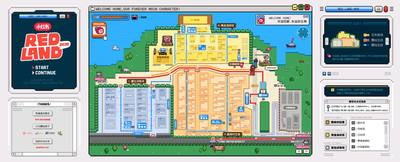
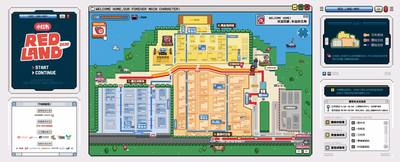
data: 换用新版官方场馆平面图（A-04 改为 coser 换装区 / 服务台、B-20 解锁为联想拯救者）
用户 9/30 提供新版官方地图（整图 7087×2879），就地替换 public/img/rules/map-2026/
的 00 / 00-full / p1 / p2 / p2-full / p3；旧版 10 个文件删除，回退靠 git 历史。

先把新图中间地图窗口按与 p2.jpg 相同的裁切框缩放后逐像素叠加，确认**两版几何完全
一致**（展位框 / 道路 / 绿化 / 装饰位置重合，差异掩膜里只有边缘抗锯齿噪声与文字），
因此 mapSpots 热区 / mapDoors / mapStart / walkGrid 全部沿用未重测。

新版实际改动四处：
- A-04 格由「待解锁」改为「coser 换装区 + 服务台」，A-04 不再是展位，从 booths.js
  删除（A 区由 40 个展位号变 39）；mapSpots.A04 热区保留给功能点位复用，并用
  NON_BOOTH_SPOTS 从地图热区列表排除，免得出现点不出 IP 的空气泡
- B-20 由「待解锁」解锁为「联想拯救者」，进 booths.js（玩法 / 账号待补）；
  credits 左栏新增 LEGION logo 佐证
- 东侧 A-01 以东新增灰色建筑「未解锁区域」，进 venueMap.tips
- credits 新增拯救者 LEGION、新创华两个 logo

功能点位的两处改动是「换位不是增减」（处数与官方指南一致）：A 区 coser 换装区从
「A-08 旁」挪到「A-04 格」、A 区服务台从「A-13 旁」挪到「A-04 格右侧」，旧位置在
新图上都消失了。

跟着图尺寸改的常量：plan.js / DevMapPage.vue 的 PX_H 1738→1748、DevMapPage 的
NAT {6000,4344}→{3952,2879}；M_PER_PX = 200/290 不动（那条 200M 箭头官方 9/20 就
删了，新版也没有，刻度是知情沿用旧图的）。三切片按深色竖框 x=1575 / 5527 切、全高
不裁。分辨率降为旧版约一半，已放大并排核对过展位号与文字清晰可读。

验证：npm run build 通过；headless 390px 实测 A 区列表无 A04 行、B 区有 B20 行、
筹选 A51/B24/C21=96、图鉴统计卡仍按官方 80/74 提示「不一致，待核」、B20 详情页
有「加清单 / 打卡 / 导航」；热区框与功能点位框叠在新图上逐一核对对齐。

diff --git a/src/data/mapSpots.js b/src/data/mapSpots.js
@@ -2,14 +2,19 @@
 // 坐标是相对 P2 那一张切片的归一化 [x, y, w, h]（P2 = 整图 x 0.2205–0.7815 全高，见 map-2026/note.json），
 // 缩略图 p2.jpg 与原像素 p2-full.jpg 共用同一套坐标。
 // 由 scripts/map-spots.py 生成：识别方框 → 人工核对序号 → --emit / --walk。
-// A 区 40 + B 区 21 + C 区 20 = 81 个展位全部已标。C 区的展位是 2–4 个挤在同一个大蓝框里，
-// 描边规则拆不开，改按亮度切（框内分隔缝是底色 R≈205，展位块 R≈160），见 scripts/map-spots.py split_c。
+// A 区 39 + B 区 21 + C 区 20 = 80 个展位 ⋯⋯ 9/30 换新版官方图后 A-04 格改为功能点位，A 区由 40 变 39。
+// C 区的展位是 2–4 个挤在同一个大蓝框里，描边规则拆不开，改按亮度切
+// （框内分隔缝是底色 R≈205，展位块 R≈160），见 scripts/map-spots.py split_c。
+// **9/30 换图说明**：新版官方图与 9/11 版的展位框 / 道路 / 绿化几何完全一致（逐像素比对过），
+// 因此本文件的全部坐标沿用、未重测；只更新了功能点位的换位（coser / service）。
 import { booths } from './booths.js'
 
 export const mapSpots = {
   A01: [0.6305, 0.4715, 0.0648, 0.0414],
   A02: [0.5445, 0.4715, 0.065, 0.043],
   A03: [0.6305, 0.5207, 0.0502, 0.0272],
+  // A04：新版官方图这一格已改为「coser 换装区 + 服务台」，不再是展位（用户 9/30）。
+  // 热区保留，给 mapFacilities 的 coser / service 复用；booths.js 里已无 A04，列表与图鉴都不会出现它。
   A04: [0.5585, 0.5207, 0.0505, 0.0272],
   A05: [0.6305, 0.5546, 0.05, 0.0265],
   A06: [0.5585, 0.555, 0.0502, 0.0262],
@@ -369,22 +374,24 @@ export const walkGrid = {
 // 坐标同样是 P2 归一化 [x, y, w, h]，由 scripts/map-spots.py --fac 从图标底色识别后人工归类。
 // official 是官方「功能点位指南」给的处数；充电宝与寄存处有几处画得太小 / 和别的图标挨太近没认出来，
 // UI 会显示「已标 N / 官方 M 处」，别当成全的。
+// 9/30 换新版官方图后：A 区的 coser 换装区从「A-08 旁」挪到「A-04 格」（该格官方图中本为 A-04 待解锁），
+// A 区的服务台从「A-13 旁」挪到「A-04 格右侧」——两处都是**换位置不是增减**，各自总数仍是 3，与官方指南一致。
 export const mapFacilities = [
   { key: 'toilet', name: '卫生间', icon: '🚻', official: 6, points: [[0.6237, 0.2194, 0.0433, 0.0129], [0.687, 0.3575, 0.0217, 0.0099], [0.3532, 0.613, 0.0095, 0.0608], [0.6792, 0.721, 0.0215, 0.0097], [0.3838, 0.7383, 0.0095, 0.0605], [0.2, 0.8182, 0.0462, 0.0132]] },
   { key: 'food', name: '餐饮休息区', icon: '🍱', official: 3, points: [[0.4428, 0.1685, 0.0382, 0.0327], [0.4963, 0.7102, 0.0382, 0.0274], [0.2192, 0.7578, 0.0408, 0.0361]] },
   { key: 'power', name: '充电宝', icon: '🔋', official: 9, points: [[0.3988, 0.1904, 0.0115, 0.0143], [0.4699, 0.1852, 0.01, 0.0132], [0.6663, 0.3027, 0.0113, 0.0143], [0.2863, 0.5543, 0.0115, 0.0145], [0.5234, 0.7242, 0.01, 0.0111], [0.598, 0.7516, 0.0115, 0.0143], [0.6265, 0.7594, 0.0112, 0.0143], [0.2481, 0.7762, 0.0107, 0.0146]] },
   { key: 'locker', name: '寄存处', icon: '🧳', official: 2, points: [[0.7265, 0.5212, 0.033, 0.0175], [0.6917, 0.805, 0.0342, 0.0173]] },
-  { key: 'coser', name: 'Coser 换装区', icon: '👗', official: 3, points: [[0.492, 0.2792, 0.0312, 0.0281], [0.6682, 0.6605, 0.0257, 0.0279], [0.1608, 0.7765, 0.0325, 0.015]] },
+  { key: 'coser', name: 'Coser 换装区', icon: '👗', official: 3, points: [[0.492, 0.2792, 0.0312, 0.0281], [0.5583, 0.5183, 0.0372, 0.031], [0.1608, 0.7765, 0.0325, 0.015]] },
   { key: 'settle', name: '结算点 / 无料交换点', icon: '🎫', official: 3, points: [[0.4162, 0.157, 0.0155, 0.044], [0.5487, 0.7419, 0.0448, 0.0223], [0.1608, 0.7482, 0.0325, 0.0251]] },
   { key: 'medical', name: '医疗点', icon: '🚑', official: 6, points: [[0.6667, 0.3204, 0.0103, 0.0131], [0.1448, 0.4291, 0.0108, 0.0138], [0.8287, 0.5209, 0.0132, 0.0143], [0.7752, 0.6057, 0.0113, 0.014], [0.6263, 0.6968, 0.0112, 0.014], [0.1942, 0.7767, 0.0113, 0.0143]] },
-  { key: 'service', name: '服务台', icon: 'ℹ', official: 3, points: [[0.6673, 0.3386, 0.0097, 0.0368], [0.2877, 0.5737, 0.0088, 0.0338], [0.6275, 0.715, 0.0088, 0.0336]] },
+  { key: 'service', name: '服务台', icon: 'ℹ', official: 3, points: [[0.6673, 0.3386, 0.0097, 0.0368], [0.2877, 0.5737, 0.0088, 0.0338], [0.6, 0.5189, 0.0108, 0.0315]] },
 ]
 
 // 逛展动线序号（蛇形序）：按「巷道 + 沿巷序」生成，奇数巷正序、偶数巷倒序。
 // 只用于多点路线的初始顺序与列表排序，**不替代官方展位号**（打卡记录仍按 booths.js 的 id 存）。
 // 巷道划分依据与五种拣货策略的实测对比见 docs 13.14，机器可读版 docs/raw/aisle_codes.json。
 export const mapSeq = {
-  A03: 1, A04: 2, A06: 3, A05: 4, A07: 5, A09: 6,
+  A03: 1, A06: 3, A05: 4, A07: 5, A09: 6,
   A10: 7, A08: 8, A11: 9, A12: 10, A18: 11, A16: 12,
   A13: 13, A15: 14, A21: 15, A22: 16, A23: 17, A24: 18,
   A25: 19, A39: 20, A40: 21, A38: 22, A37: 23, A35: 24,
@@ -409,7 +416,7 @@ export const mapSeq = {
 // 9/15 按这个办法改了 4 个：A14 D→A（原来开在南侧场外马路上，导航绕出会场，用户反馈应走 A12 → A13/A15 → A14）、
 // C10 A→C、C11 A→C、C12 A→D。A01/A02/A18/B17/B21 虽然也离线远，但换边后路线更长，维持原样。
 export const mapDoors = {
-  A01: 'A', A02: 'C', A03: 'A', A04: 'C', A05: 'A', A06: 'CD', A07: 'A', A08: 'A',
+  A01: 'A', A02: 'C', A03: 'A', A05: 'A', A06: 'CD', A07: 'A', A08: 'A',
   A09: 'BC', A10: 'C', A11: 'CD', A12: 'AD', A13: 'BD', A14: 'AB', A15: 'B', A16: 'C',
   A17: 'CD', A18: 'C', A19: 'B', A20: 'D', A21: 'AD', A22: 'AB', A23: 'AD', A24: 'A',
   A25: 'A', A26: 'A', A27: 'C', A28: 'C', A29: 'A', A30: 'AD', A31: 'C', A32: 'A',
@@ -460,13 +467,18 @@ export function doorPoint(no, from) {
 const boothsOf = (no) => booths.filter((b) => String(b.no).split('/').some((s) => s.trim() === no))
 
 // 灯箱要的热区数组：rect 归一化坐标，items 为该展位号下的全部 IP
+// A04 已不是展位（新版官方图里那一格改为 coser 换装区 / 服务台），热区保留只给功能点位复用，
+// 不再出现在地图的展位热区列表里 —— 否则图上会多一个点不出任何 IP 的空气泡（用户 9/30）
+const NON_BOOTH_SPOTS = new Set(['A04'])
 function buildSpotList() {
-  return Object.entries(mapSpots).map(([no, rect]) => ({
-    no,
-    label: `${no[0]}-${no.slice(1)}`,
-    rect,
-    items: boothsOf(no).map((b) => ({ id: b.id, ip: b.ip })),
-  }))
+  return Object.entries(mapSpots)
+    .filter(([no]) => !NON_BOOTH_SPOTS.has(no))
+    .map(([no, rect]) => ({
+      no,
+      label: `${no[0]}-${no.slice(1)}`,
+      rect,
+      items: boothsOf(no).map((b) => ({ id: b.id, ip: b.ip })),
+    }))
 }
 export const mapSpotList = buildSpotList()
 

diff --git a/src/data/rules.js b/src/data/rules.js
@@ -413,7 +413,7 @@ export const venueMap = {
   // 首页卡片里的缩略图仍是整张总览；点开进灯箱则换成下面按比例切好的 3 张（用户 9/14）
   images: [
     { src: 'img/rules/map-2026/00.jpg', alt: '2026 官方功能地图 · 全岛总览（左侧标题卡、中间全岛、右侧图例与接驳车信息）' },
-    { hidden: true, src: 'img/rules/map-2026/01.jpg', alt: 'A 区 翻身时空港 + 东侧与南侧：A-01 ~ A-40 展位分布、入口 / 出口、安检票检、寄存处、装备区、蓄客等待区、地铁 12 号线复兴岛站、577 中华船厂站与日间接驳车上下车点' },
+    { hidden: true, src: 'img/rules/map-2026/01.jpg', alt: 'A 区 翻身时空港 + 东侧与南侧：A-01 ~ A-40（A-04 已改为 coser 换装区 / 服务台）、入口 / 出口、安检票检、寄存处、装备区、蓄客等待区、地铁 12 号线复兴岛站、577 中华船厂站与日间接驳车上下车点' },
     { hidden: true, src: 'img/rules/map-2026/02.jpg', alt: 'B 区 黄金海岸线：B-01 ~ B-22 展位分布、冒险者营地、餐饮休息区、结算点 / 无料交换点' },
     { hidden: true, src: 'img/rules/map-2026/03.jpg', alt: 'C 区 重生试炼场：C-01 ~ C-20 展位分布、非公开区域、出入口' },
     { hidden: true, src: 'img/rules/map-2026/04.jpg', alt: '图例栏：花车路线 / 冒险主线 / 冒险支线、接驳车点位信息、三区色块、功能点位清单' },
@@ -439,18 +439,25 @@ export const venueMap = {
     '夜间接驳 19:30–23:00：夜间上客点在「冒险者大道尽头」，送至上海国际时尚中心接驳点',
     '入口在 A 区（翻身时空港）东南侧；A 区北侧、C 区各有出入口，C 区南北两侧另有出口',
     '冒险者营地：日光冒险 13:30–16:00、月光舞台 19:00–21:00',
+    'A 区东侧（A-01 以东）另有一片灰色建筑标注「未解锁区域」，把 A-01 东侧的通道夹成两条绿化带中间的一条便道',
   ],
   // 地图上标出的回血回蓝点位（正文原文清单）
   facilities: [
     '冒险者营地', '医疗点', '充电宝点位', '卫生间', '餐饮区', '换装区',
     '安检区', '寄存处', '装备区', '服务台', '结算点', '无料交换点', '零食 / 饮品贩卖机点位',
   ],
+  // 9/30 换图：新版官方图（用户 9/30 提供，说明「这份就是官方的」），几何与 9/11 版完全一致、
+  // 只改了 A-04 格（待解锁 → coser 换装区 / 服务台）、B-20（待解锁 → 联想拯救者）并补了东侧「未解锁区域」，
+  // 因此展位热区 / 路网 / 起点全部沿用未重测。旧版图片已删，要回退用 git 历史。
+  // 下面 source 仍是官方号 9/11 那条笔记（图的最初出处）；新版图的具体笔记 id 未拿到。
   source: {
     title: '系统提示：主角！你的登岛地图已解锁！',
     url: 'https://xhslink.cn/o/9ZFGNWnsj4j',
     noteId: '6aa3a8aa00000000260175ec',
     author: 'RED LAND',
     publishedAt: '2026-09-11',
+    updatedAt: '2026-09-30',
+    updateNote: '9/30 换用新版官方图：A-04 改为 coser 换装区 / 服务台、B-20 解锁为联想拯救者、东侧新增「未解锁区域」',
   },
 }
 
@@ -493,6 +500,9 @@ export const venueFacilities = {
     },
   ],
   note: '温馨提示：贵重物品建议主角们随身携带保管哦！',
+  // 9/30 换新版官方地图后，图上点位的**位置**有变（处数不变）：A 区的 Coser 换装区从「A-08 旁」挪到「A-04 格」，
+  // A 区的服务台从「A-13 旁」挪到「A-04 格右侧」。上面 groups 里的处数原文不动，位置以首页「场馆平面图」卡里的地图为准。
+  mapNote: '点位处数以上面官方原文为准；图上具体位置请以首页「场馆平面图」卡里的新版地图为准（9/30 版地图把 A 区的 Coser 换装区与服务台集中到了 A-04 一带）。',
   images: [
     { src: 'img/rules/facilities/00.jpg', alt: '入口一带（A 区东南）：安检票检、装备区、寄存处 ×2、Coser 换装区、医疗点 ×3、充电宝、服务台、卫生间、蓄客等待区，以及 577 中华船厂站（日间接驳上车点）与美弗来青年社区（日间接驳下车点，距入口约 100 米）' },
     { src: 'img/rules/facilities/01.jpg', alt: 'A 区 翻身时空港西侧：移动洗手间、餐饮休息区（零食 / 饮品贩卖机 + 充电宝）、结算点 / 无料交换点、充电宝，以及地铁 12 号线复兴岛站' },

diff --git a/src/data/booths.js b/src/data/booths.js
@@ -16,7 +16,7 @@ export const booths = [
   { id: 'A02', zone: 'A', no: 'A02', ip: '三角洲行动', blurb: '来洲洲大红街区观光做客，解锁干员撤离后的另一种生活', xhs: { uid: '63205dd8000000002303aaa7', name: '三角洲行动' } },
   { id: 'A03a', zone: 'A', no: 'A03', ip: '王者万象棋', blurb: '棋手闺蜜团登岛炸场！', xhs: { uid: '62da1715000000000e00fae1', name: '王者万象棋' } },
   { id: 'A03b', zone: 'A', no: 'A03', ip: '王者荣耀世界', blurb: '世民入镜，你是世界里的风景', xhs: { uid: '653a085e00000000020106cc', name: '王者荣耀世界' } },
-  { id: 'A04', zone: 'A', no: 'A04', noPin: true, ip: '待解锁', blurb: '官方场馆平面图标注「待解锁」，IP 待公布' },
+  // A04：新版官方场馆平面图里这一格已改为「coser 换装区 + 服务台」两个功能点位，不再作展位（用户 9/30）
   { id: 'A05', zone: 'A', no: 'A05', ip: '心动小镇', blurb: '小镇庆典日开张，庆典派对狂欢不停！', xhs: { uid: '60e29bf70000000020029ea6', name: '心动小镇' } },
   { id: 'A06', zone: 'A', no: 'A06', ip: '星布谷地', blurb: '米哈游最新生活模拟游戏国内首展，感受治愈新生活！', xhs: { uid: '619603700000000021028fc6', name: '星布谷地' } },
   { id: 'A07', zone: 'A', no: 'A07', noPin: true, ip: '京东 101HOME', alias: 'JD 京东101HOME', blurb: '官方场馆平面图（2026-09-11）新增，展台详情待公布', xhs: { uid: '6315d8ba000000001501a9e9', name: '京东101HOME' } },
@@ -84,7 +84,7 @@ export const booths = [
   { id: 'B16', zone: 'B', no: 'B16', noPin: true, ip: 'IP 贩售 · 宝藏码头', alias: '宝藏码头 IP贩售 谷子 集市', blurb: '各世界的冒险者在此归港，听说他们带来了不少宝藏……', xhs: { uid: '685ce6320000000008039c70', name: 'RED LAND' } },
   { id: 'B18', zone: 'B', no: 'B18', ip: '火影忍者手游', blurb: '《火影忍者》手游启动！来修炼你的忍道，成为最强忍者学员！', xhs: { uid: '650b9eb20000000012007285', name: '火影忍者手游情报君' } },
   { id: 'B19', zone: 'B', no: 'B19', ip: 'CLUTCH', alias: '离合：红线 离合红线', blurb: '摩纳哥海岸的昼夜双面世界，解锁速度与激情！', xhs: { uid: '6aa5b578000000000301cb9a', name: 'CLUTCH | 离合：红线' } },
-  { id: 'B20', zone: 'B', no: 'B20', noPin: true, ip: '待解锁', blurb: '官方场馆平面图标注「待解锁」，IP 待公布' },
+  { id: 'B20', zone: 'B', no: 'B20', ip: '联想拯救者', alias: 'LEGION Lenovo 拯救者 拯救者', blurb: '新版官方场馆平面图已解锁为「联想拯救者」，展台玩法待公布' },
   { id: 'B21a', zone: 'B', no: 'B21', noPin: true, ip: '康师傅冰红茶', alias: '冰红茶 饮料 低糖高纤 低GI', blurb: '「低 GI 痛快海滩」限时营业，玩游戏解锁好礼，冰红茶男团 coser 空降', xhs: { uid: '667636f90000000003032dfe', name: '康师傅冰红茶' } },
   { id: 'B21b', zone: 'B', no: 'B21', noPin: true, ip: 'Danisa 皇冠丹麦曲奇', alias: '丹麦曲奇 饼干', blurb: '趣味烘焙屋上岛，邀你一起解锁美味「曲奇食光」～', xhs: { uid: '5cdd6863000000001700ecd9', name: 'Danisa皇冠丹麦曲奇' } },
   { id: 'B21c', zone: 'B', no: 'B21', noPin: true, ip: '中国银联', alias: 'UnionPay 云闪付 银圆圆', blurb: '红支付 联结热爱 —— 带上银圆圆去冒险；9/28 起线上福利与登岛出行优惠开启', xhs: { uid: '6367125e000000001f01fca1', name: '中国银联' } },

diff --git a/src/utils/plan.js b/src/utils/plan.js
@@ -176,9 +176,11 @@ function improve(seed, cost) {
   return o
 }
 
-// P2 切片按 2400×1738 的缩略图坐标算折线长度（归一化 → 像素）
+// P2 切片按 2400×1748 的缩略图坐标算折线长度（归一化 → 像素）
+// 9/30 换新版官方图后 p2.jpg 从 2400×1738 变 2400×1748（同一裁切框、同一比例，纵高差 10px 是重采样取整）；
+// 两者比例差 0.6%，对「约 X 米」的量级显示无影响，沿用不改（改要同步 DevMapPage.vue 的同名常量）。
 const PX_W = 2400
-const PX_H = 1738
+const PX_H = 1748
 function polyLen(pts) {
   let d = 0
   for (let i = 1; i < pts.length; i++) {
@@ -189,6 +191,8 @@ function polyLen(pts) {
 
 // 比例尺取自官方图自己标的那条箭头「入口距离：地铁12号线·复兴岛站200M」——
 // 箭头在 2400 宽的 P2 缩略图上长约 290px，即 1px ≈ 0.69m。是图上直线距离的量级参考，界面上标「约」。
+// 注意：9/20 复核时官方就已删掉这条箭头，9/30 换上的新版图同样没有箭头；比例尺是**沿用旧图刻度、知情保留**的，
+// 不要再试图从新图上重算（图上没有可量的锚了）。展位与道路的几何两版一致，所以刻度仍然成立。
 const M_PER_PX = 200 / 290
 export const fmtDist = (d) => {
   const m = Math.round(d * M_PER_PX)

diff --git a/src/data/boothPinyin.js b/src/data/boothPinyin.js
@@ -5,7 +5,6 @@ export default {
   A02: { f: ["sanjiaozhouxingdong"], i: ["sjzxd"] },
   A03a: { f: ["wangzhewanxiangqi"], i: ["wzwxq"] },
   A03b: { f: ["wangzherongyaoshijie"], i: ["wzrysj"] },
-  A04: { f: ["daijiesuo"], i: ["djs"] },
   A05: { f: ["xindongxiaozhen"], i: ["xdxz"] },
   A06: { f: ["xingbugudi"], i: ["xbgd"] },
   A07: { f: ["jingdong","101home","jd","jingdong101home"], i: ["jd","jd1"] },
@@ -71,7 +70,7 @@ export default {
   B16: { f: ["ip","fanshou","baozangmatou","ipfanshou","guzi","jishi","red","land","xiaoxiangdaeegm"], i: ["fs","bzmt","ifs","gz","js","xxdee"] },
   B18: { f: ["huoyingrenzheshouyou","huoyingrenzheshouyouqingbaojun","piledongman"], i: ["hyrzsy","hyrzsyqbj","pldm"] },
   B19: { f: ["clutch","lihehongxian"], i: ["lhhx"] },
-  B20: { f: ["daijiesuo"], i: ["djs"] },
+  B20: { f: ["lianxiangzhengjiuzhe","legion","lenovo","zhengjiuzhe"], i: ["lxzjz","zjz"] },
   B21a: { f: ["kangshifubinghongcha","binghongcha","yinliao","ditanggaoxian","digi"], i: ["ksfbhc","bhc","yl","dtgx","dg"] },
   B21b: { f: ["danisa","huangguandanmaiquqi","danmaiquqi","binggan","danisahuangguandanmaiquqi"], i: ["hgdmqq","dmqq","bg","dhgdmqq"] },
   B21c: { f: ["zhongguoyinlian","unionpay","yunshanfu","yinyuanyuan"], i: ["zgyl","ysf","yyy"] },

diff --git a/src/views/DevMapPage.vue b/src/views/DevMapPage.vue
@@ -545,7 +545,9 @@ function undo(c) {
 }
 
 // ---- 图的显示尺寸 ----
-const NAT = { w: 6000, h: 4344 }
+// NAT = p2-full.jpg 的原始像素尺寸，只用来算显示宽高比。9/30 换新版官方图后从 6000×4344 变 3952×2879
+// （同一裁切框、同一比例），改了不影响本机 rl26.dev 的覆盖数据（坐标是归一化的）。
+const NAT = { w: 3952, h: 2879 }
 const imgW = ref(1200)
 const imgH = computed(() => Math.round((imgW.value * NAT.h) / NAT.w))
 const scroller = ref(null)
@@ -1110,7 +1112,7 @@ const gapOf = (d) => sideGaps.value[d] ?? 99
 // ---- 试走 ----
 // 折线长度换成米：与 utils/plan.js 的 fmtDist 同一比例尺（按 2400 宽的 P2 像素算）
 const PX_W = 2400
-const PX_H = 1738
+const PX_H = 1748
 function pathLen(pts) {
   let d = 0
   for (let i = 1; i < pts.length; i++) d += Math.hypot((pts[i].x - pts[i - 1].x) * PX_W, (pts[i].y - pts[i - 1].y) * PX_H)

diff --git a/CLAUDE.md b/CLAUDE.md
@@ -20,7 +20,12 @@
 - **视觉参考 RED LAND 官方活动页的像素海岛风**：天蓝格纹底、奶白像素描边卡、红色编号标签、黄色星标、导航深蓝描边。不要改成通用 Material / iOS 风。
 - **数据只来自官方**：小红书 RED LAND 官方活动页、各 IP 官方账号的「RED LAND2026 | XX展台活动详情」笔记、官方新闻稿。不编造、不猜测；未公布的写「待补充 / 待确认」。
   - 唯一例外：首页「场馆平面图」卡下半部分保留 **2025 年**网友整理的参考图（`rules.js venueMapRef`，用户 9/10 决定放、9/11 官方图出来后决定继续保留），UI 与数据必须标明「2025 年」「非官方」。
-- **场馆平面图官方图已接入**（`rules.js venueMap`，RED LAND 官方号 9/11 笔记）：放在首页「场馆平面图」卡上半部分（原 LOADING 占位处），5 张图在 `public/img/rules/map-2026/`。**全图必须原像素**（用户 9/11）：缩略图 `00.jpg` 3200 宽，灯箱打开加载 `00-full.jpg` 14412×5854（q88 约 5.5MB），走 `Lightbox` 的 `item.full`。给每个展位挂坐标（点展位在图上定位）仍未做——官方图没有网格，要逐个量展位框中心点。
+- **场馆平面图官方图已接入**（`rules.js venueMap`，RED LAND 官方号 9/11 笔记；**9/30 换成新版官方图**，见下）：放在首页「场馆平面图」卡上半部分（原 LOADING 占位处）。**全图必须原像素**（用户 9/11）：缩略图 `00.jpg` 3200 宽，灯箱打开加载 `00-full.jpg`（q88 约 2.4MB），走 `Lightbox` 的 `item.full`。
+- **9/30 换图（用户提供新版官方地图，确认「这份就是官方的」）**：新版整图 7087×2879（含四周 UI 外框），就地替换 `public/img/rules/map-2026/` 里的 `00 / 00-full / p1 / p2 / p2-full / p3`（旧版 10 个文件已删，**回退靠 git 历史**，没有再留 archive 目录——旧的 01/02/03/04 三区分图与图例栏切片不再产出）。三切片按深色竖框 **x=1575 / 5527** 切、全高不裁；`p2-full` 是 3952×2879 原像素（新版分辨率只有旧版一半，但已实测展位号与文字清晰可读，用户看过 p1/P2 后确认够用）。
+  **换图的关键前提：两版几何完全一致**（逐像素叠加比对过 —— 展位框、道路、绿化、装饰位置一模一样，差异掩膜里只有边缘抗锯齿噪声和文字）。因此 `mapSpots` 热区 / `mapDoors` / `mapStart` / `walkGrid` 全部**沿用未重测**，这是本次换图能安全落地的原因。**下次再换图要先做这一步比对**：把新图中间地图窗口按同一裁切框缩放到 `p2.jpg` 尺寸叠加看差异掩膜，几何一致才可以直接复用坐标。
+  新版实际改动只有 4 处：① **A-04 格由「待解锁」改为「coser 换装区 + 服务台」**（用户 9/30 决定：A-04 不再是展位，从 `booths.js` 删除；`mapSpots.A04` 热区保留给功能点位复用，并用 `NON_BOOTH_SPOTS` 把它从地图热区列表里排除，免得出现点不出 IP 的空气泡；A 区由 40 个展位号变 39）；② **B-20 由「待解锁」解锁为「联想拯救者」**（进 `booths.js`，账号未公布暂不填 `xhs`；credits 左栏同步新增「拯救者 LEGION」logo 佐证）；③ **东侧（A-01 以东）新增一块灰色建筑标「未解锁区域」**，把那一带的通道夹成两条绿化带中间的便道，已加进 `venueMap.tips`；④ **credits 新增拯救者 LEGION 与新创华两个 logo**（纯致谢，不建数据）。
+  **功能点位是「换位」不是增减**（处数与官方指南一致，别改 `official`）：A 区的 **coser 换装区从「A-08 旁」挪到「A-04 格」**、A 区的 **服务台从「A-13 旁」挪到「A-04 格右侧」** —— 两处旧位置在新图上都消失了。`venueFacilities.mapNote` 里记了这条。
+  跟着图的尺寸改的常量：`plan.js` 的 `PX_H` 1738→1748、`DevMapPage.vue` 的同名常量与 `NAT` {6000,4344}→{3952,2879}；`M_PER_PX = 200/290` **不动**（那条 200M 箭头官方 9/20 就删了，新版也没有，刻度是知情沿用旧图的，不要试图从新图重算）。
 - **场馆功能点位一律以 RED LAND 官方「功能点位指南」为准**（用户 9/20）：IP 自己笔记里的点位写法不同就按官方改，只在详情里注一句。已处理的分歧——地铁出口：官方写「12 号线复兴岛站 **4 号口**出站步行 200 米」，第五人格 9/17「场地信息」写「入岛 4 号口、离岛 2 号口」（与官方一致并解释了 2 号口），暴雪 9/19「登岛指南」写 2 号口（按官方改口径）；`rules.js` 的 `event.address` / `venueNav.address` 此前残留 2025 年的「2 号口步行约 110 米」，已改成 4 号口。
 - 多步任务默认直接推进，不逐步确认；只在需要业务口径 / 方案取舍时停下问。
 
@@ -72,8 +77,8 @@ docs/                         总资料底稿：REDLAND2026_信息汇总.md + as
 | `mapSpots.js` | `mapSeq` 逛展动线序号（蛇形序，路线种子与列表排序用，**不替代官方编号**）；`mapDoors` + `doorPoints()` 每个展位的到达门（A 左 / B 上 / C 右 / D 下，朝向过道那条边，**导航终点用它、不要用中心点**）。**一个展位可以配多个门，最少 1、最多 4**（用户 9/15），值是边的字母串如 `'A'` / `'AC'` / `'ABCD'`；`findRoute` 支持多目标，自动停在最近的那个门。校验办法见 §5，门点离最近一格真线 >3 格就是开在死面上，9/15 据此修了 A14 / C10 / C11 / C12；`mapSpots`：81 个展位号 → **P2 切片**上的归一化热区 `[x, y, w, h]`（p2.jpg 与 p2-full.jpg 共用）；`mapStart` 登岛起点；`walkGrid` 300×217 路网；`mapFacilities` 功能点位（遮罩点亮用）；`mapSpotList` 再附该展位号下的全部 IP | `scripts/map-spots.py`：`<区> --emit` 出热区、`--walk` 出路网，序号→展位号人工核对。**热区坐标最后是直接在 `p2-full.jpg`（6000×4344）上重测的**——先经 01/02/03.jpg → 概览图 → 整图 → P2 转换会累积几像素误差，看着就是框整体偏右下（用户 9/14） |
 | `rules.js` | `event`（含 `days[]`）/ `mainline`（含 `regions[].pin/color`、`nightPin`、`images`、`source`）/ `eggs` / `places` / `dailySchedule` / `venueMap`（官方平面图：`images` / `routes` 路线图例 / `routeTip` / `tips` 交通与点位 / `facilities` 回血点位 / `source`）/ `venueFacilities`（功能点位指南：`groups[{ title, items[] }]` / `note` / `images` 五段放大标注图 / `source`）/ `venueMapRef`（2025 年参考图 + 交通要点，非官方，保留）/ `booking`（展位活动预约指南：`timeline` 三个时间节点 / `steps` STEP1–3 + 查看凭证 / `rules` 预约资格·预约规则·退改·核销四组 / `note` / 9 张图 / `source`；渲染成首页「主线玩法」卡与「场馆平面图」卡之间的折叠卡 `🗓 展位活动预约指南`，**默认收起**，收起时也显示三枚时间胶囊（9/28–9/30 那枚用 `.pill.hot`）；RED LAND 官方号 9/19。STEP2「绑定门票」是预约前置步骤，只收流程、不收购票渠道与票价；**`booking.calendar`**（RED LAND 官方号 9/25「预约日历」：`intro` / `tips` / `note` / `days[{ date, entries[{ ip, booth: id \| [ids] \| null, acts[{ name, kind, desc }] }] }]`，按开约日 9/27 → 9/28 → 9/29 → 9/30 列全部 25 条预约活动（23 IP + 2 官方活动；正文说的第 26 个「品牌展台」没在图里），`kind` 是官方「活动类型」原文；13 张图 `cal-00～12` + `note-calendar.json`；预约指南折叠里再套一层「📅 官方预约日历」折叠（`openBookCal`，默认收起），展位名后跟 `.tag.blue.text.btn` 展位 id 标签可点跳详情；**日历里的展位一律算「需预约」**（`BoothsPage.bookingIds` 并入 `calendar` 的 `booth`），IP 自己没发笔记的 A32 / C18 / B14 用日历建了轻量详情（共用 `calSource`）。日历只给开约日不给时刻；**`booking.calendar.square`**（9/27）：`fetchedAt` / `note` / `times{ 展位 id → '9月28日 12:00' }`，来自 RED LAND2026 主会场「活动广场」ditto 页（`0874fd34…`）用本机 headless Chrome `--dump-dom` 渲染后按 `booth-card__number / reserve-time` 解析（`fetch-ditto.mjs` 抓不到，组件接口渲染），首页日历每条 IP 后显示 `⏰ 时刻` 的 `.pill.hot`，`calTime(e)` 按 id 取、营地用 `camp`；页面显示的是「下一场」会滚动，原始解析存 `docs/raw/activity_square_2026-09-27.json`）/ `dining`（岛上餐饮指南：`points` 三条要点 / `survey` 官方价格调查 / 12 张图 / `source`；RED LAND 官方号 9/21。三个区域各一处餐饮区 + 零食饮品自助贩卖机，全岛 27 家餐饮商、116 种品类，低于市场价约 37% / 持平约 63% / 高于 0 种。逐家展商的商品清单只按图收录，不转录成数据）/ `mallDeals`（商圈票根联动优惠：`malls` 7 家商场 / `kinds` 优惠类型 / `points` / 16 张图 / `source`；RED LAND 官方号 9/20。凭主角通行证票根到合作门店解锁，属到场后的场外福利、不是购票渠道或票价，可收录）/ `equipPack`（主角专属装备包：`items[{ name, desc, note }]` 五件 + `notes` + 7 张图 + `source`；渲染在首页「主线玩法」卡**里面**——PIN 规则图源之后、🎈 彩蛋之前的「🎒 主角专属装备包」小节（用户 9/17 从独立折叠卡并入，因为它是主线第一步）；RED LAND 官方号 9/15，入场安检后到装备区人人可领，不涉票务） | 官方「冒险者攻略」半层 + 主会场 + RED LAND 官方号 8/25「PIN 收集玩法」、9/11「登岛地图已解锁」「功能点位指南」笔记；`venueMapRef` 来自网友「星辰大海」2025-08-07 笔记 |
 
-- 非展位类官方笔记（玩法说明、区域介绍等）的图片放 `public/img/rules/<主题>/`，同样附 `note.json`；数据进 `rules.js`，不要塞进 `boothDetails.js`。已有：`rules/pin/`（PIN 分区规则）、`rules/pin-npc/`（NPC & 老玩家 PIN 图鉴）、`rules/map-2025/`（2025 年场地参考图，网友整理非官方，保留 1080 宽）、`rules/facilities/`（官方功能点位指南，同一张官方地图的 5 段放大标注图，保留原始 1080 宽）、`rules/equip/`（主角专属装备包 7 张，RED LAND 官方号 9/15，810 宽）、`rules/booking/`（展位活动预约指南 9 张，RED LAND 官方号 9/19，810 宽）、`rules/dining/`（小岛餐饮指南 12 张，RED LAND 官方号 9/21，810 宽）、`rules/mall/`（商圈票根联动优惠 16 张，RED LAND 官方号 9/20，810 宽）、`rules/map-2026/`（官方场馆平面图；`p1/p2/p2-full/p3` 是灯箱用的按比例三切片——P1 标题卡 / P2 中间地图（带热区，`p2-full` 6000 宽）/ P3 图例栏，切点取自整图竖直深色窗口边框 x=0.2205 / 0.7815，全高不裁；00 总览仍是首页卡里的缩略图。这些均由同一张 14412×5854 原图裁切，裁切框记在 `note.json.crops`；00 全图 / 01 A 区含东侧与南侧入口 / 02 B 区 / 03 C 区 / 04 图例栏）。**地图类图不套 810 宽的规矩**：按可读性给宽度（总览 3200 / A 区 2200 / B、C 区 1800 / 图例 1100），只压质量。
-- `src/data/pins.js`：PIN 图鉴数据（**`name` 统一写成 `IP「存档碎片」· 款式`**，用户 9/28：没公布样式写「款式待公布」，日 / 夜场写「日场款 / 夜场款」，只有一款又没名字写「展台款」；官方原称呼（徽章 / PIN 卡 / 主题 PIN）、是否计入区域拼图待确认、可夜光这类备注**不进 name、挂在 `how` 末尾括号里**；NPC / 老玩家 / 夜间同格式，冒险者拼图不是存档碎片保持原名）（type: region / night / veteran / npc / reward / **camp**——9/23 为「冒险者营地专属 PIN」加的类型，不属展位与区域，`PinsPage` 把它并进「夜间 / NPC / 老玩家 / 营地」筹选），由 `PinsPage` 渲染。字段：`no` 占位编号（区域 PIN = 展位 id[-序号]，如 `A09-1`；夜间 `N-01`、老玩家 `V-01`、NPC `NPC-01`、拼图 `R-A/R-B/R-C/R-ALL`，官方公布正式编号后再换）、`thumb` 抠出的单枚缩略图、`image` 所在整张笔记图、`booth`。每收录一个带 PIN 的展台详情：在 `scripts/crop-pins.py` 的 CROPS 加裁切框（坐标基于 810px 宽图）→ `python scripts/crop-pins.py <id>` → 追加进 `pins[]`。PIN 在图里不到 150px 时（C07 这种）给 opts `{ fileId, upscale: true }`：脚本按 `note.json.fileIds` 拉 sns-img-qc 原始分辨率图再裁并放大锐化到 320，否则缩略图会糊。**裁切框按本地图坐标写，脚本用本地图的实际宽度做 fileId 原图的换算基准**（9/25 改，之前写死 810；C09 世界之外原图只有 750 宽）。**`sns-img-qc` 对部分 `notes_pre_post/…` 的 fileId 会返回 HEIC**（文件头 `ftypheic`，9/24 粒粒 A39 那张就是），PIL 打不开会报 `UnidentifiedImageError`——先删掉 `%TEMP%/rl26-pins/` 里那份坏缓存重试一次，仍是 HEIC 就去掉 `fileId` 直接用 810 图放大（87px → 320 还能看），别为一张图去装 pillow-heif。**官方图里斜着摆的 PIN 给 opts `rotate: <度数>`**（正数 = 逆时针）：脚本先把整张图绕裁切框中心转这么多度再按同一个框裁，软盘转正后同样的框里背景更少、PIN 更满，图鉴网格也整齐。已定角度：npc-1 −15 / npc-2 +20 / npc-3 −16 / npc-4 +21 / npc-5 −16 / npc-6 +21（每张 NPC 图里前后两枚软盘往相反方向斜）、veteran −8、C16 +15、night +45（夜间 PIN 是斜 45° 的菱形）。**定角度别靠肉眼扫缩略图**（9/14 试过，判反了好几个）：用 shell 颜色掩膜（NPC 红 / C16 蓝）+ 「旋转后行列投影的一阶差分平方和最大」扫 −30°～+30°，再放大到 200px 以上核对一眼。`zone-A/B/C` 与 `puzzle-*` 是摆在笔记本页面上的透视实拍图，不是平面旋转，**不要加 rotate**，只用 fileId 拉原图放大。没公布 PIN 的展位不用写，页面自动生成占位卡（**9/28 起按展位号生成，一个展位号一张**，同号多 IP 合成一张；顶部「📊 发 PIN 展位统计」按官方口径显示 总展位 81 / 发 PIN 74 = 已放实图 + 有情报无图 + 待公布，三项相加不等于 74 时页面会提示「不一致，待核」——用户 9/28：图鉴数量要按文档里的官方数量来）；**`booths[].noPin: true` 的展位不生成占位卡**（用户 9/27：B16 宝藏码头（IP 售卖）/ B22 冰品补给点 / B21a–d 赞助区 / A04 A26 B20 待解锁 / A16 光夜展陈 本来就不发 PIN；9/29 用户又加了 A07 京东 101HOME（品牌展台），此后 noPin 展位号 8 个、本站发 PIN 73，比官方 74 少 1，图鉴统计卡会提示「不一致，待核」）。用户同时觉得 C04 独立游戏大食堂也没有，但 RED LAND 官方 9/21 明确写了「独立游戏大食堂存档碎片」，**C04 保留占位**（9/29 用户再次确认大食堂是独立游戏混合区、不算发 PIN 展位，已删 pins.js `C04` 并标 `noPin`；详情奖励里仍保留官方 9/21 原文的「存档碎片」文字，只是不再链到图鉴）。**9/27 数量核对**：官方 9/25 日历正文写「总活动展位 81 个、发 PIN 展位 74 个」，booths.js 80 个展位号 + B17 = 81，减去 noPin 的 7 个展位号（A04 A16 A26 B16 B20 B21 B22）正好 74，说明 C04 确实发 PIN；需预约 26 = 23 IP（我们标的 23 个 needBooking 展位号一一对上）+ 官方活动 2（营地见面会 + C04 主创小圆桌）+ 品牌展台 1（不明）；需预约领 PIN 官方说 7、我们数出 8（A09 / A10 / A11 / A32 / A40 / B12 / C07 / C18），差 1 待核。 **缩略图只能是官方原图裁出来的**：官方只给了卡片 / 内卡、没给软盘成品图时，就按卡片原样裁（并在 `name` 里标「是否属区域 PIN 待确认」），**不要把内卡 P 进软盘框里合成一张「成品示意图」**——那等于替官方发布一个它没公布过的外观（用户 9/21 提过这个想法，核对后发现归环给的是自家造型卡片、比例 1.66:1，根本塞不进软盘窗口，故未合成）。`zoneThumbs` 是三区通用「?」软盘图。
+- 非展位类官方笔记（玩法说明、区域介绍等）的图片放 `public/img/rules/<主题>/`，同样附 `note.json`；数据进 `rules.js`，不要塞进 `boothDetails.js`。已有：`rules/pin/`（PIN 分区规则）、`rules/pin-npc/`（NPC & 老玩家 PIN 图鉴）、`rules/map-2025/`（2025 年场地参考图，网友整理非官方，保留 1080 宽）、`rules/facilities/`（官方功能点位指南，同一张官方地图的 5 段放大标注图，保留原始 1080 宽）、`rules/equip/`（主角专属装备包 7 张，RED LAND 官方号 9/15，810 宽）、`rules/booking/`（展位活动预约指南 9 张，RED LAND 官方号 9/19，810 宽）、`rules/dining/`（小岛餐饮指南 12 张，RED LAND 官方号 9/21，810 宽）、`rules/mall/`（商圈票根联动优惠 16 张，RED LAND 官方号 9/20，810 宽）、`rules/map-2026/`（官方场馆平面图，**9/30 换新版官方图**；`p1/p2/p2-full/p3` 是灯箱用的按比例三切片——P1 标题卡 / P2 中间地图（带热区，`p2-full` 3952 宽）/ P3 图例栏，切点取自整图竖直深色窗口边框 **x=1575 / 5527**，全高不裁；00 总览仍是首页卡里的缩略图。这些均由同一张 **7087×2879** 原图裁切，裁切框记在 `note.json.crops`；旧版的 01 A 区 / 02 B 区 / 03 C 区 / 04 图例栏四个切片 9/30 起不再产出，回退靠 git 历史）。**地图类图不套 810 宽的规矩**：按可读性给宽度（总览 3200 / 三切片 1500、2400、1500），只压质量。
+- `src/data/pins.js`：PIN 图鉴数据（**`name` 统一写成 `IP「存档碎片」· 款式`**，用户 9/28：没公布样式写「款式待公布」，日 / 夜场写「日场款 / 夜场款」，只有一款又没名字写「展台款」；官方原称呼（徽章 / PIN 卡 / 主题 PIN）、是否计入区域拼图待确认、可夜光这类备注**不进 name、挂在 `how` 末尾括号里**；NPC / 老玩家 / 夜间同格式，冒险者拼图不是存档碎片保持原名）（type: region / night / veteran / npc / reward / **camp**——9/23 为「冒险者营地专属 PIN」加的类型，不属展位与区域，`PinsPage` 把它并进「夜间 / NPC / 老玩家 / 营地」筹选），由 `PinsPage` 渲染。字段：`no` 占位编号（区域 PIN = 展位 id[-序号]，如 `A09-1`；夜间 `N-01`、老玩家 `V-01`、NPC `NPC-01`、拼图 `R-A/R-B/R-C/R-ALL`，官方公布正式编号后再换）、`thumb` 抠出的单枚缩略图、`image` 所在整张笔记图、`booth`。每收录一个带 PIN 的展台详情：在 `scripts/crop-pins.py` 的 CROPS 加裁切框（坐标基于 810px 宽图）→ `python scripts/crop-pins.py <id>` → 追加进 `pins[]`。PIN 在图里不到 150px 时（C07 这种）给 opts `{ fileId, upscale: true }`：脚本按 `note.json.fileIds` 拉 sns-img-qc 原始分辨率图再裁并放大锐化到 320，否则缩略图会糊。**裁切框按本地图坐标写，脚本用本地图的实际宽度做 fileId 原图的换算基准**（9/25 改，之前写死 810；C09 世界之外原图只有 750 宽）。**`sns-img-qc` 对部分 `notes_pre_post/…` 的 fileId 会返回 HEIC**（文件头 `ftypheic`，9/24 粒粒 A39 那张就是），PIL 打不开会报 `UnidentifiedImageError`——先删掉 `%TEMP%/rl26-pins/` 里那份坏缓存重试一次，仍是 HEIC 就去掉 `fileId` 直接用 810 图放大（87px → 320 还能看），别为一张图去装 pillow-heif。**官方图里斜着摆的 PIN 给 opts `rotate: <度数>`**（正数 = 逆时针）：脚本先把整张图绕裁切框中心转这么多度再按同一个框裁，软盘转正后同样的框里背景更少、PIN 更满，图鉴网格也整齐。已定角度：npc-1 −15 / npc-2 +20 / npc-3 −16 / npc-4 +21 / npc-5 −16 / npc-6 +21（每张 NPC 图里前后两枚软盘往相反方向斜）、veteran −8、C16 +15、night +45（夜间 PIN 是斜 45° 的菱形）。**定角度别靠肉眼扫缩略图**（9/14 试过，判反了好几个）：用 shell 颜色掩膜（NPC 红 / C16 蓝）+ 「旋转后行列投影的一阶差分平方和最大」扫 −30°～+30°，再放大到 200px 以上核对一眼。`zone-A/B/C` 与 `puzzle-*` 是摆在笔记本页面上的透视实拍图，不是平面旋转，**不要加 rotate**，只用 fileId 拉原图放大。没公布 PIN 的展位不用写，页面自动生成占位卡（**9/28 起按展位号生成，一个展位号一张**，同号多 IP 合成一张；顶部「📊 发 PIN 展位统计」按官方口径显示 总展位 81 / 发 PIN 74 = 已放实图 + 有情报无图 + 待公布，三项相加不等于 74 时页面会提示「不一致，待核」——用户 9/28：图鉴数量要按文档里的官方数量来）；**`booths[].noPin: true` 的展位不生成占位卡**（用户 9/27：B16 宝藏码头（IP 售卖）/ B22 冰品补给点 / B21a–d 赞助区 / A04 A26 B20 待解锁 / A16 光夜展陈 本来就不发 PIN；9/29 用户又加了 A07 京东 101HOME（品牌展台），此后 noPin 展位号 8 个、本站发 PIN 73，比官方 74 少 1，图鉴统计卡会提示「不一致，待核」）。用户同时觉得 C04 独立游戏大食堂也没有，但 RED LAND 官方 9/21 明确写了「独立游戏大食堂存档碎片」，**C04 保留占位**（9/29 用户再次确认大食堂是独立游戏混合区、不算发 PIN 展位，已删 pins.js `C04` 并标 `noPin`；详情奖励里仍保留官方 9/21 原文的「存档碎片」文字，只是不再链到图鉴）。**9/27 数量核对**：官方 9/25 日历正文写「总活动展位 81 个、发 PIN 展位 74 个」，booths.js 80 个展位号 + B17 = 81，减去 noPin 的 7 个展位号（A04 A16 A26 B16 B20 B21 B22）正好 74，说明 C04 确实发 PIN；需预约 26 = 23 IP（我们标的 23 个 needBooking 展位号一一对上）+ 官方活动 2（营地见面会 + C04 主创小圆桌）+ 品牌展台 1（不明）；需预约领 PIN 官方说 7、我们数出 8（A09 / A10 / A11 / A32 / A40 / B12 / C07 / C18），差 1 待核。**9/30 换图后**：A04 出（本来就是 noPin）、B20 进（`ip` 改为联想拯救者、不再 noPin），展位号仍是 80 个、noPin 仍是 7 个、本站发 PIN 仍 73，所以上面这套核对结论不变；但 **B20 从「待解锁不发 PIN」变成一家真实展位**，将来官方公布它发不发 PIN 时要回来改 `noPin` 与 `booths.js`。利用 `chart` 的 `noPinNos` 判定是数据驱动的，不用手改常量。 **缩略图只能是官方原图裁出来的**：官方只给了卡片 / 内卡、没给软盘成品图时，就按卡片原样裁（并在 `name` 里标「是否属区域 PIN 待确认」），**不要把内卡 P 进软盘框里合成一张「成品示意图」**——那等于替官方发布一个它没公布过的外观（用户 9/21 提过这个想法，核对后发现归环给的是自家造型卡片、比例 1.66:1，根本塞不进软盘窗口，故未合成）。`zoneThumbs` 是三区通用「?」软盘图。
 - 术语：官方 8 月攻略半层叫「冒险岛的信物 / 冰箱贴」，8/25 PIN 笔记叫「冒险者拼图 / 冒险岛拼图完整体」，指同一件东西；UI 以「冒险者拼图」为主并括注旧称。PIN 按区域分色：翻身时空港橙 `#f26a2e`（A 区，需 4）、黄金海岸线黄 `#f2c23a`（B 区，需 2）、重生试炼场蓝 `#2f8fe6`（C 区，需 2）、夜间 PIN 黑。已收录展台的 PIN 颜色可用来反推区域。 **但分色不是铁律，别拿它反推、也别据此改官方图**（用户 9/22）：A-10 原神的徽章是标准软盘造型（灰条 + 小红书角标齐全）却是**蓝色**，官方原文也只写「徽章一份」而非「存档碎片」，已按原图进 `pins.js` `A10`、`zone` 随展位记 A，并在 `name` 里写明「软盘为蓝色，非 A 区橙，是否计入区域拼图待确认」。遇到这种冲突一律照官方图记录 + 标待确认。
 
 - **`booths[].xhs`**：`{ uid, name }` 该 IP 小红书官方账号（uid = 抓笔记时 `note.json` 里的 `user.userId`）。**作者必须是该 IP 自己的官方号**：RED LAND 官方号发的「xx 确认登岛」是主办方账号，不能填成该 IP 的 `xhs`（唯一例外 B16 宝藏码头是主办方自营集市）。只有「确认登岛」预告、线上征集这类没有展台玩法的笔记：只补 `xhs`，不建 `boothDetails`，封面压 810 宽归档到 `docs/assets/ip_notes/PREVIEWS_确认登岛预告/<展位号_IP>.jpg` + 同名 json（`keptOnly` 写明缘由），`public/img` 不留文件。有则列表行出现 📕 按钮、详情页出现「小红书主页」按钮，方便用户去核对最新动态；没有的展位只给搜索按钮。每抓一条新 IP 笔记都要顺手把 uid 补进 `booths.js`。RED LAND 官方号 uid `685ce6320000000008039c70`（`src/utils/xhs.js`）。
@@ -273,7 +278,10 @@ docs/                         总资料底稿：REDLAND2026_信息汇总.md + as
 - [x] 功能点位指南：RED LAND 官方号 9/11 笔记已接入（`rules.js venueFacilities` + `public/img/rules/facilities/`，首页平面图卡「登岛地图」下新增「🧭 功能点位指南」折叠）。地铁口以官方 4 号口为准（2025 网友图写的 2 号口作废）
 - [x] 展位活动预约：RED LAND 官方号 9/19「展位活动预约指南」已接入（`rules.js booking` + `public/img/rules/booking/`，首页折叠卡）。**9/25 预约系统上线并公布全部预约活动与时间表 → 9/28–9/30 开放预约 → 10/2–10/6 现场动态二维码核销**，线下每日 12:30 开放入场。9/25 当天要回来补各展位的具体预约场次 / 名额（**A40 光与夜之恋 9/21 已自行公布档期**：三个项目 × 5 天全部在 9/28 12:00–15:45 分 15 分钟一档开启，是目前唯一有具体时间的展台，可作其他 IP 公布时的格式参照）。**9/25 已回补**：RED LAND 官方号当天发「预约日历」（`rules.js booking.calendar`，25 条），据此给 A22 火影见面会 / A33 遇镜 / A25 轻松小熊合影会 / C11 拼豆工坊 / A39 心想家 / A09 星穹铁道两项 / C04 主创小圆桌 / 冒险者营地 见面会 补了 `needBooking` 与开约日；A10 / A28 / B03 的「开约时间待公布」改成日历日期。日历只给开约日不给时刻，各展位具体时刻仍以主会场活动页为准；正文说需预约 26 个、日历只列 25 条，缺的 1 个「品牌展台」待官方补
 - [ ] 夜间「月下模式」具体开启时刻（A22 火影见面会的开约日 9/25 已由官方日历给出：10/2 场 9/28、10/3–10/4 场 9/29、10/5–10/6 场 9/30，日历里的活动名是「漩涡鸣人见面会（含合影券）」）
-- [ ] 平面图新增的待解锁展位 A04 / A26 / B20 官方公布 IP 后补；A16「光夜展陈」与 A40 光与夜之恋的关系待官方确认
+- [ ] 平面图新增的待解锁展位 **A26** 官方公布 IP 后补（**A04 已于 9/30 按新版官方图撤下** —— 那一格改成 coser 换装区 / 服务台，不再是展位；**B20 已于 9/30 解锁为「联想拯救者」**，进 `booths.js`，仍待补：展台玩法、官方账号 uid、是否发 PIN）；A16「光夜展陈」与 A40 光与夜之恋的关系待官方确认
+- [ ] B20 联想拯救者：新版地图只给了名字与 credits 里的 LEGION logo，**展台玩法 / 小红书官方账号 / 要不要预约 / 发不发存档碎片全未公布**，需等其官方笔记；官方公布后按 §6 流程建详情
+- [ ] 9/30 新版地图的**来源笔记 id 未拿到**（用户直接给的图，确认是官方的）：`venueMap.source` 仍记 9/11 那条笔记，补到新版笔记链接后换成它
+- [ ] 9/30 新版地图新增的东侧「未解锁区域」灰色建筑：官方没说是什么（单纯封路 / 二期场地 / 未公布展位都可能），只进了 `venueMap.tips` 一句话，等官方口径
 - [x] C07 苏丹的游戏：9/24 已公布预约规则（9/29 15:00 起按日开约、舍馆核销、日 13:00–17:00 / 夜 18:00–21:00）。剩下：哈比卜的厨房白天 / 夜晚两款大餐卡牌样式待公布；宴会菜单 / 大餐贴纸实物待现场
 - [ ] IP 官方账号：93 个展位行已关联 78 个（9/11 用户六批共 112 条链接；93 = 原 81 + 平面图新增 12 行），剩 8 行待补（**C04 独立游戏大食堂按用户 9/27 口径不需要独立账号，不再计入**）：C13 GSE（**9/30 补上**：uid `647feef5000000001f0060ae`、昵称「香港 GSE 官方」，取自其 9/30「首度登岛！GSE参展2026 RedLand！」笔记的 `user.userId`；`redOfficialVerifyType` 为 0 = 未认证官方标，但昵称自称官方、笔记内容与展位一致；9/23 的啦嗒铛 ditto 页没有关注组件所以此前拿不到）、A04 / A26 / B20（待解锁，无 IP）、C20 符文战场。9/24 补 B21d 华硕 a豆（uid `5d0e0d1b0000000011004433`，来自其 9/24「a豆在复兴岛发礼物啦」）。9/25 补 A37 奇遇动物城（uid `6a743a370000000013021c03`，其 9/25 参展情报；IP 名从「动物城模拟生活新游（Partopia）」改为官方号自称的「奇遇动物城」，旧名进 alias）。9/27 补 B19 CLUTCH（uid `6aa5b578000000000301cb9a`，其 9/24 确认登岛）与 A31 TopHat（uid `6a8d268a0000000001004400`，其 9/25 登岛预告，两款游戏只有截图），封面都进 `PREVIEWS_确认登岛预告/`；无畏契约手游号（uid `6546721d000000000301e8d4`，用户 9/27 给的主页链接）与 B06 展位行已挂的「无畏契约端手游」不是同一个号、主页读取被风控未核实，先不动。**9/27 用户定：B06 展位行主账号换成手游号，端游号进 `accounts`**，已改。9/20 再补 B21a 康师傅冰红茶（id 已与华硕 a豆 对调）。9/22 补 A07 京东 101HOME 与 C19 高达汇战（各自 9/20 的笔记）（uid `6315d8ba000000001501a9e9`，来源是它 9/20 的静安寺全球首店开业笔记，与 RED LAND 无关、笔记本身不收）。9/23 补 B21c 中国银联（uid `6367125e000000001f01fca1`，来源是它 9/23 的登岛确认函）。9/20 补 4 个：A16 光夜展陈（用户确认与 A40 光与夜之恋是同一 IP，挂光与夜之恋官方号）、B21b Danisa 皇冠丹麦曲奇、C10 FINAL FANTASY RESONANCE（SQUARE ENIX ASIA 9/15 为登岛开的号，此前填过的「最终幻想14」不是同一游戏）、C11 MARD；自动查询已验证不可行（§9）。独立游戏 84 款已有账号 41 个（9/14 补 Rain 98；505 Games / Mecrew games / UBISOFT 一个账号对应多款）
 - [ ] C04 独立游戏：84 款名单已与官方 9/9 版一致；每款的小红书账号 uid / 攻略链接待补（`indie.js` 的 `xhs` / `url` 字段，官方页拿不到，需逐个找）

diff --git a/docs/REDLAND2026_信息汇总.md b/docs/REDLAND2026_信息汇总.md
@@ -1138,6 +1138,12 @@
 
 笔记「系统提示：主角！你的登岛地图已解锁！」（noteId `6aa3a8aa00000000260175ec`，2026-09-11）。**笔记只有 1 张图**，但原图 14412×5854，展位编号全部可读。分享页默认给的 1080 宽版本只有 439px 高、编号糊成一团，必须按 `imageList[].fileId` 从 `sns-img-qc.xhscdn.com/<fileId>` 取原始 JPEG。
 
+**9/30 换新版官方地图**（用户当日直接提供图片文件并确认「这份就是官方的」）：新版整图 7087×2879（含四周 UI 外框），已就地替换 `public/img/rules/map-2026/` 的 `00 / 00-full / p1 / p2 / p2-full / p3`。三切片按深色竖框 x=1575 / 5527 切、全高不裁（P1 标题卡 / P2 中间地图 / P3 图例栏）；`00.jpg` 3200 宽、`00-full.jpg` 7087 宽原像素、`p2-full.jpg` 3952×2879、p1/p3 各 1500 宽。旧版 10 个文件（含旧的 01–04 三区分图与图例栏切片）已删除，**回退靠 git 历史**。
+**换图的前提是两版几何完全一致**：把新版中间地图窗口按与 `p2.jpg` 相同的裁切框缩放后逐像素叠加，展位框 / 道路 / 绿化 / 装饰位置完全重合，差异掩膜里只有边缘抗锯齿噪声和文字 —— 所以 `mapSpots` 热区、`mapDoors`、`mapStart`、`walkGrid` 全部沿用未重测。**下次换图必须先做这一步比对**，几何一致才可以直接复用坐标。
+新版的实际内容改动只有 4 处：① **A-04 格**由「待解锁」改为「**coser 换装区 + 服务台**」（用户 9/30 决定 A-04 不再是展位，已从 `booths.js` 删除；A 区由 40 个展位号变 39）；② **B-20** 由「待解锁」解锁为「**联想拯救者**」（进 `booths.js`，玩法 / 账号待补；credits 左栏新增 LEGION logo 佐证）；③ **东侧 A-01 以东新增一块灰色建筑标「未解锁区域」**，把那一带夹成两条绿化带中间的便道；④ credits 新增**拯救者 LEGION** 与**新创华**两个 logo。
+**功能点位是换位不是增减**（处数与官方指南一致）：A 区的 coser 换装区从「A-08 旁」挪到「A-04 格」，A 区的服务台从「A-13 旁」挪到「A-04 格右侧」，两处旧位置在新图上都消失了。
+清晰度：新版分辨率只有旧版的约一半（中间地图内容 3949×2545 vs 旧 6000×3900），已放大到同一显示尺寸并排核对，展位号与文字均清晰可读，用户看过 p1 / P2 切片后确认够用。分辨率降低了，所以灯箱「原像素大图」的实际像素数减半。
+
 项目内：`rules.js venueMap`，首页「场馆平面图」卡上段（原 LOADING 占位处；下段 2025 参考图按用户要求保留）。卡片排法（用户 9/11 定，同日两次调整后）：标题右侧「登岛地图 ▾」按钮折叠，点开为「2026 交通要点」列表 → 全图 00 占满一行 → 路线图例；01–04 三区分图与图例栏暂时隐藏（`hidden: true`），只保留文件。图片 `public/img/rules/map-2026/` 5 张，**均由同一张原图裁切 / 缩放而来**（裁切框记在 `note.json.crops`，坐标基于 1500 宽概览图）：00 全岛总览（3200 宽）、01 A 区 + 东侧 + 南侧入口（2200 宽；用户要求把右边都放进来，原单独的 05 南侧出入口图随之删除）、02 B 区、03 C 区（各 1800 宽）、04 右侧图例栏（1100 宽）。归档在 `assets/ip_notes/RULES_2026官方场馆平面图/`。地图类图不套 810 宽的规矩。
 
 **三大区域官方定名（此前 C 区是排除法推断，现已确认）**：右栏 LAYOUT OF ZONE A/B/C 写明 A = 翻身时空港（橙）、B = 黄金海岸线（黄）、C = 重生试炼场（蓝）。
@@ -1452,6 +1458,7 @@ Danisa 与 SQUARE ENIX 两条没有展台玩法，按 §4 只补 `xhs`、不建 
 | 来源 | 变化 | 处理 |
 |---|---|---|
 | **官方场馆平面图**（RED LAND 9/11） | 唯一一张图换了 fileId。逐像素比对（旧图降采样后与新图对齐）**内容完全一致**，差异只有重采样噪声；但新版只有 **3460×1406**，旧版是 **14412×5854** | **不重抓**。本地 `00-full.jpg` / `p2-full.jpg` 等切片继续用旧高清版，展位热区坐标不受影响。fileId 变更记进 `note.json.fileIdHistory` |
+| **官方场馆平面图**（用户 9/30 提供的新版） | 整图为 7087×2879（含 UI 外框）。与 9/11 版逐像素比对：**几何完全一致**，内容差异只有 A-04 格（待解锁 → coser 换装区 + 服务台）、B-20（待解锁 → 联想拯救者）、东侧新增「未解锁区域」、credits 加两个 logo | **已整体替换**（就地换 `00/00-full/p1/p2/p2-full/p3`，旧版删除、回退靠 git）。热区 / 路网 / 到达门坐标全部沿用未重测；功能点位两处换位已同步 |
 | **A24 SCLA 家族 8 条**（新创华 / EVA / 假面骑士 / 奥特曼 / 柯南 / 哥斯拉 / 犬夜叉 / 面包超人） | 每条的两张活动图都换了 fileId。实际改动有两处：① 活动一、活动二的标题下都加了「**每日礼品兑换 14:00 开始**」；② PIN 正式名从「小红书PIN徽章」改成「**小红书PIN徽章（存档碎片）**」 | 重下 `A24/02.jpg`、`03.jpg`；`boothDetails` 的 note / rewards 与 `pins.js` 的 `A24-pin-1/2` 名称、how 同步 |
 | **A17c 命运扳机** | 标题加了「丨」；第 5 张图换版，**05 号 COSER 的角色名从「狼人」改成「獠隐」** | 重下 `A17c/04.jpg`；`stage.schedule` 五天的 `獠隐 · 是己不是已` 全部改过 |
 | **B15 逆水寒** | 标题从「【内含门票】…」改成「【已开奖】…」，正文追加 20 位中奖名单 | 只改 `source.title`（`boothDetails` 与 `parade.js` 的 `extraSource`），内容无变化 |

diff --git a/README.md b/README.md
@@ -33,7 +33,7 @@ npm run build    # 产物在 dist/，base 为 /redland-guide/（GitHub Pages 同
 | `stage.js` | 月光舞台 5 日节目单、营地主题 | 官方「冒险者营地」半层 |
 | `rules.js` | 活动基本信息、主线 / 彩蛋玩法、新地图 / 夜间模式、每日时刻、官方场馆平面图、功能点位指南、2025 年参考地图 | 官方「冒险者攻略」半层 + 主会场 + RED LAND 官方号平面图笔记（2025 参考地图为网友整理，标注非官方） |
 | `pins.js` | PIN 图鉴：区域 / 夜间 / 老玩家 / NPC / 拼图，占位编号、缩略图、获取方式 | RED LAND 官方 PIN 笔记 + 各 IP 展台详情笔记 |
-| `mapSpots.js` | 官方平面图上的 81 个展位热区、到达门、功能点位坐标、导航路网 | 从官方图识别（`scripts/map-spots.py`）后人工核对；可在 `#/dev` 开发者模式里直接在图上校正并导出 |
+| `mapSpots.js` | 官方平面图上的 80 个展位热区、到达门、功能点位坐标、导航路网 | 从官方图识别（`scripts/map-spots.py`）后人工核对；可在 `#/dev` 开发者模式里直接在图上校正并导出 |
 | `roaming.js` | 无固定展位、场内游荡分发物料的 IP（日期 / 无料清单 / 账号） | 该 IP 官方账号笔记 |
 
 原始素材（官方页面全部图片、DSL JSON、逐图转录、各 IP 笔记归档）在 [`docs/`](./docs/)，总资料见 [`docs/REDLAND2026_信息汇总.md`](./docs/REDLAND2026_信息汇总.md)。
@@ -59,7 +59,7 @@ npm run build    # 产物在 dist/，base 为 /redland-guide/（GitHub Pages 同
 
 - 导航起点用现场定位（现固定从登岛起点出发；官方图没有经纬度参照，要 10 月到现场取几个点做配准）
 - 功能点位遮罩里充电宝只标到 8/9（还有 1 处图标太小没识别出来）
-- 平面图上标「待解锁」的 A04 / A26 / B20 三个展位的 IP
+- 平面图上标「待解锁」的 A26 的 IP（A04 已按 9/30 新版官方图撤下——那格改成 coser 换装区 / 服务台；B20 已解锁为「联想拯救者」，玩法 / 账号待补）
 - 夜间模式开启时刻；各预约活动的具体开约时刻（RED LAND 官方 9/25 预约日历只给了开约日，已接入首页「展位活动预约指南」折叠）
 - PIN 官方正式编号（目前按展位号占位）、夜间 PIN 实图
 - 其余 IP 的展台详情（目前已收录：A06 星布谷地、A08 代号如意、A02 三角洲行动、A09 崩坏：星穹铁道、A10 原神、A11 绝区零、A12 超自然行动组、A14 巫师3：狂猎 / 赛博朋克2077 / 赛博朋克：边缘行者2、A15 古剑、A01 盛世天下、A05 心动小镇、A13 PlayStation、A17 奥星热浪 / 归环 / 命运扳机、A18 伊莫、A20 上海迪士尼度假区、A23 航海王、A19 黑神话、A21 三丽鸥、A22 火影忍者、A24 SCLA / 新创华（假面骑士 / 奥特曼 / 面包超人 / 超级战队 / 柯南 / EVA / 初音未来 / 哥斯拉 / 犬夜叉）、A25 Aniplex（鬼灭之刃 / 孤独摇滚）、A27 无限暖暖、A28 代号：香、A29 海绵宝宝 / 忍者神龟、A33 光·遇、A34 我的世界、A35 阅文（拆成 全职高手 / 诡秘之主 / 一人之下 / 道诡异仙 / 狐妖小红娘 / 阅文好物 六行）、A36 如鸢、A37 奇遇动物城、A30 七界梦谭、A32 代号：在场证明、A38 剑网3、A39 粒粒的小人国、A40 光与夜之恋、B01 蛋仔派对、B02 / B17 / C16 宝可梦、B03 Lovania、B04 永劫无间、B04 暴雪游戏、B06 无畏契约（轻量：月光舞台 DJ 专场 + 两个账号）、B07 第五人格、B08 遗忘之海、B09 重返未来：1999、B10 明日方舟、B11 明日方舟：终末地、B12 鸣潮、B14 暗影成双、B15 逆水寒、B16 宝藏码头、B18 火影忍者手游、B21 康师傅冰红茶 / 中国银联 / 华硕 a豆、B22 心「DONG」冰品补给点、C01 刺客信条：黑旗 记忆重置、C03 乌合之众 / 沉星之序（各自独立详情）、C04 独立游戏大食堂（官方玩法 + 救世阿姨 / 落日山丘 / 我不是胖虎 / 宇宙怪谈2 / 唐宫诗与谋 摊位）、C05 女神异闻录4 Revival、C07 苏丹的游戏、C08 猛兽派对、C09 世界之外、C11 MARD、C12 hololive、C13 GSE / 啦嗒铛（6 款试玩 + 周边贩售区）、C14 声探疑云、C17 航海王卡牌对战、C18 闪魂、C19 高达汇战；游荡 IP：公用冰箱里有什么 / 鼠记私房菜）
